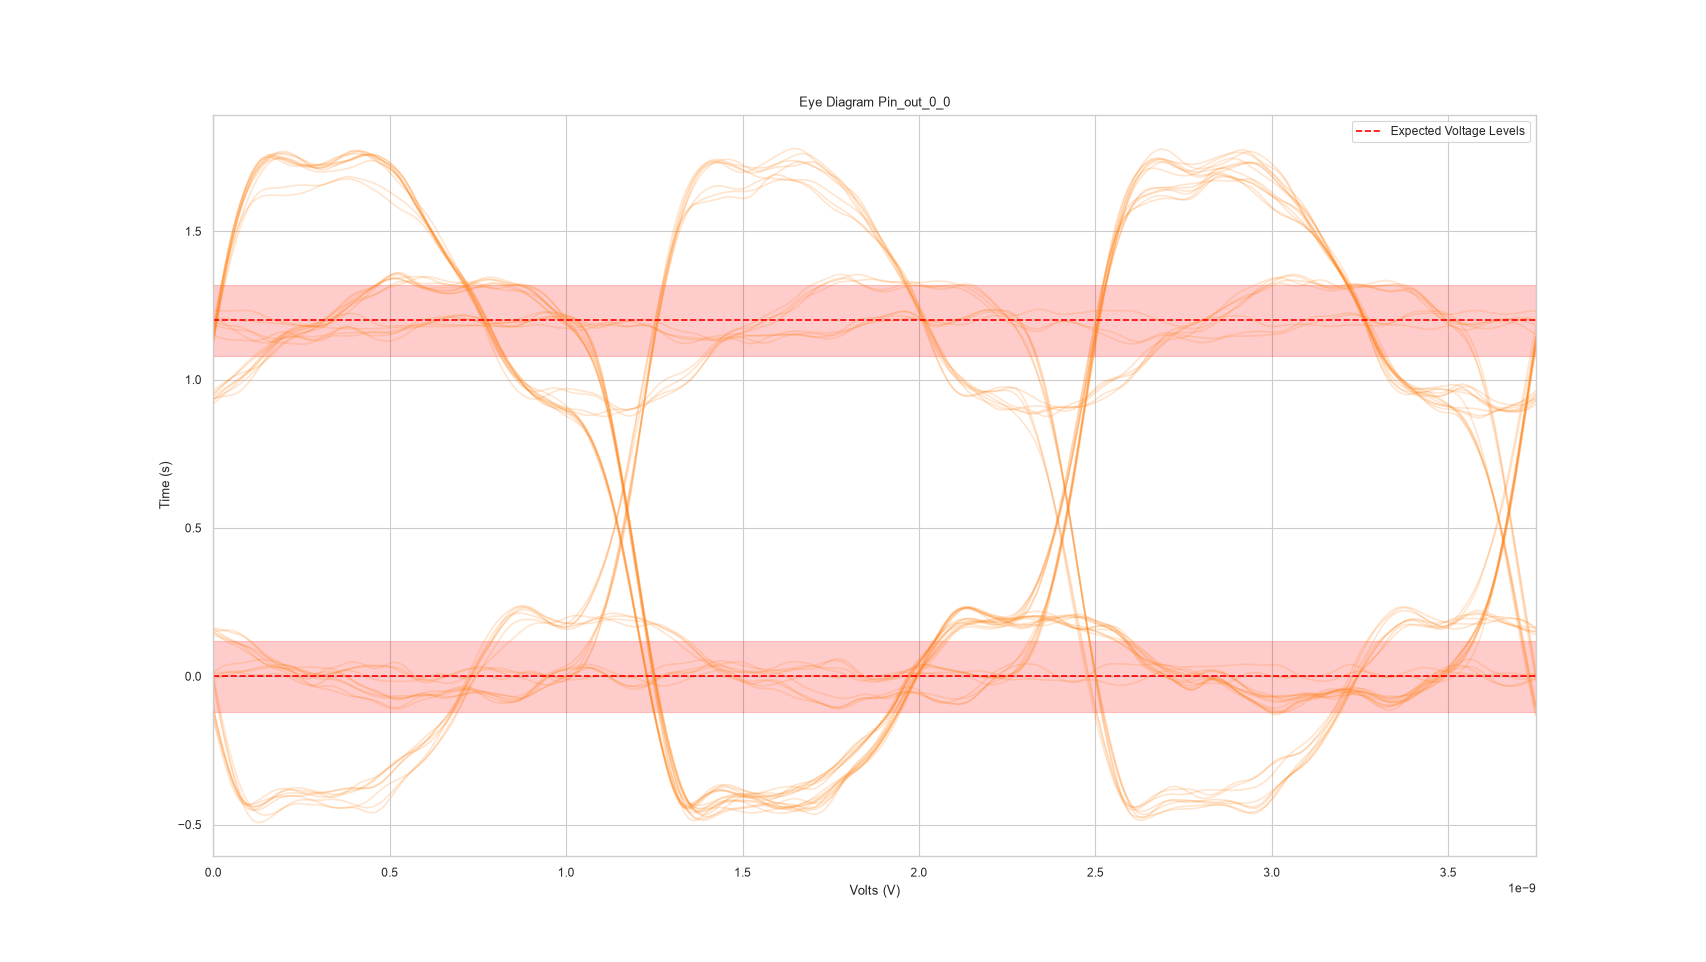
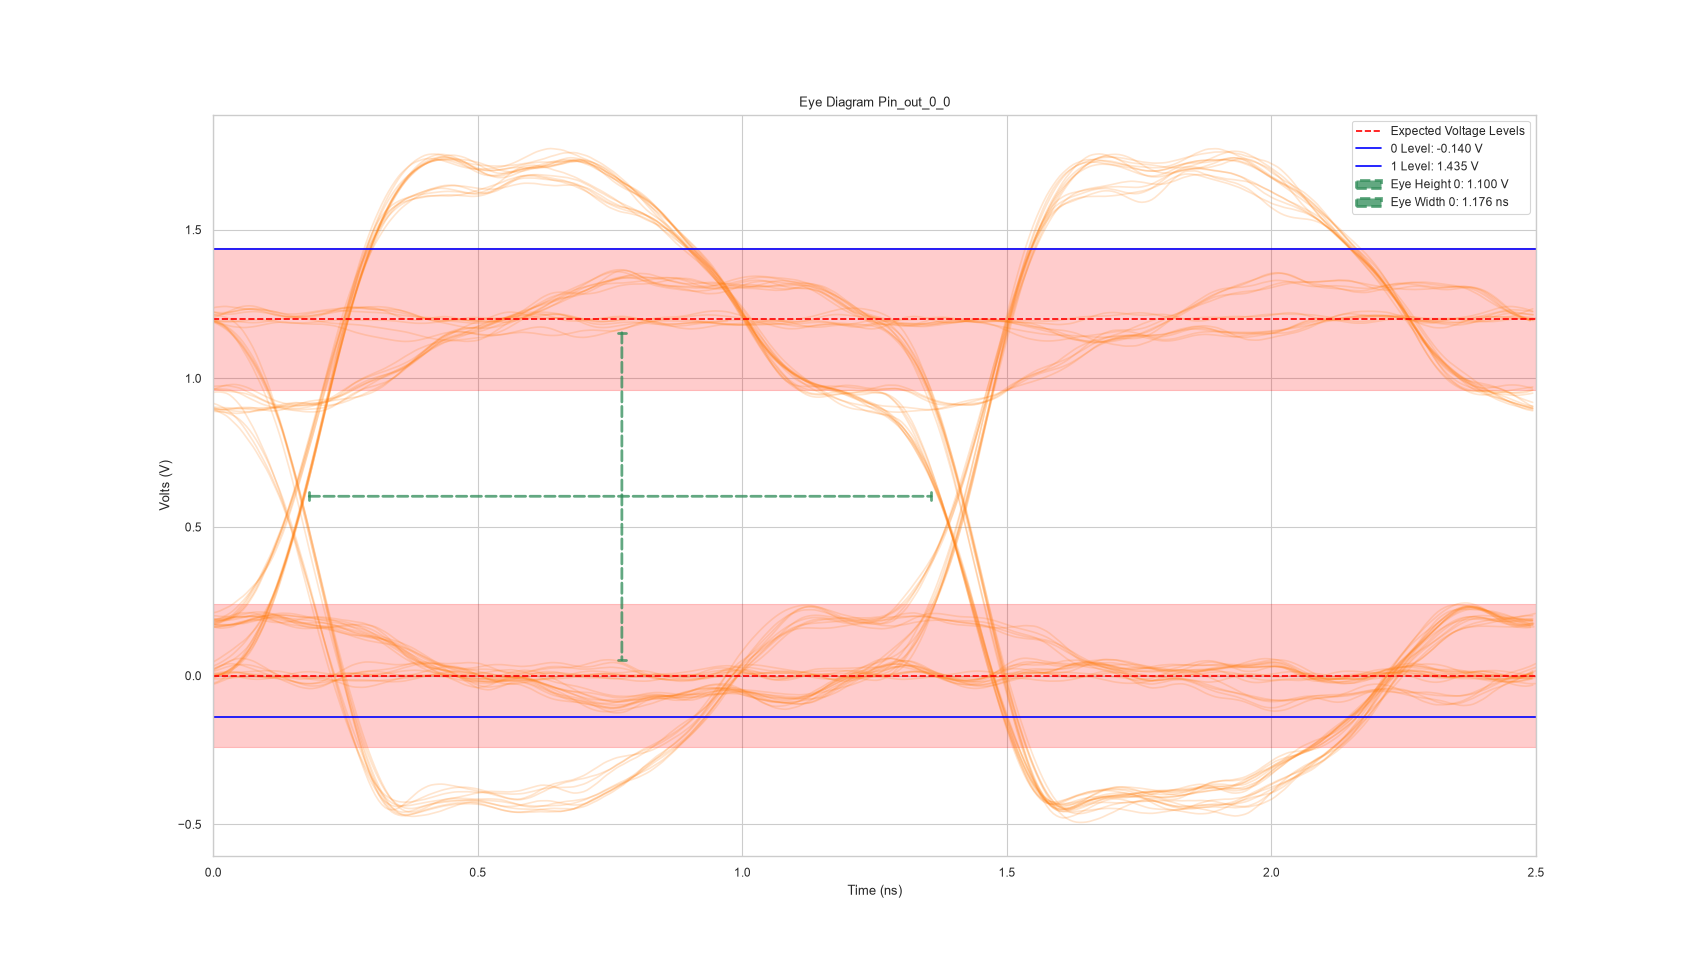
Update docs to reflect code changes

diff --git a/docs/source/examples.rst b/docs/source/examples.rst
@@ -63,12 +63,13 @@ configuration parameters are provided. Additionally, the requested analyses are 
 
 The measurements from the waveform analysis are as follows: ::
 
-    |Time Eye Center: 1.779E-09|
-    |0 Level: -2.249E-01|
-    |1 Level: 1.440E+00|
-    |Eye Height 0: 1.080E+00|
-    |Eye Amplitude 0: 1.665E+00|
-    |Eye Width 0: 3.956E-04|
+    |Fall Time: 1.846E-10|
+    |Slew Rate Fall: -5.200E+09|
+    |Rise Time: 1.904E-10|
+    |Slew Rate Rise: 5.042E+09|
+    |Overshoot: 5.258E-01|
+    |Undershoot: -4.503E-01|
+    |Settling Time: 1.243E-09|
 
 .. image:: /examples_resources/ex1_wf.png
     :width: 80%
@@ -76,13 +77,16 @@ The measurements from the waveform analysis are as follows: ::
 
 The measurements from the eye diagram analysis are as follows: :: 
 
-    |Fall Time: 1.225E-09|
-    |Slew Rate Fall: -7.835E+08|
-    |Rise Time: 9.873E-10|
-    |Slew Rate Rise: 9.724E+08|
-    |Overshoot: -4.354E-02|
-    |Undershoot: -5.082E-02|
-    |Settling Time: 1.243E-09|
+    |Time Eye Center: 7.722E-10|
+    |0 Level: -1.404E-01|
+    |1 Level: 1.435E+00|
+    |Eye Height 0: 1.100E+00|
+    |Eye Bottom 0: 1.153E+00|
+    |Eye Top 0: 5.336E-02|
+    |Eye Amplitude 0: 1.576E+00|
+    |Eye Width 0: 1.176E-09|
+    |Eye Right 0: 1.357E-09|
+    |Eye Left 0: 1.813E-10|
 
 .. image:: /examples_resources/ex1_eye.png
 
@@ -124,15 +128,28 @@ Waveform and Eye Analysis were performed on the daisy chain structure detailed i
             terminations_end=[None, None, None]
     )
 
+Additionally, the analyses were manually configured with the specific node name to be checked and some specific 
+configuration settings in a dictionary: ::
+
+    analysis_config = {'key': 'pin_out_1_0',     
+                'clock_frequency': comp.net_tree.clock_frequencies_Hz[0],
+                'v_high': comp.net_tree.v_logic[0][1],
+                'v_low':  comp.net_tree.v_logic[0][0],
+                'threshold_pct': 0.8, 
+                'statistical_jitter_s': 0,
+                'visualise': True}
+    results = compose_and_run_simulation(comp)
+    analyse_simulation_results(comp, results, visualise=True, eye_config=analysis_config, waveform_config=analysis_config)
+
 The measurements from the waveform analysis are as follows: ::
 
-    |Fall Time: 1.003E-09|
-    |Slew Rate Fall: -9.572E+08|
-    |Rise Time: 1.056E-09|
-    |Slew Rate Rise: 9.091E+08|
-    |Overshoot: 2.616E-02|
-    |Undershoot: -1.222E-01|
-    |Settling Time: 1.238E-09|
+    |Fall Time: 1.365E-10|
+    |Slew Rate Fall: -7.036E+09|
+    |Rise Time: 1.357E-10|
+    |Slew Rate Rise: 7.076E+09|
+    |Overshoot: 5.061E-01|
+    |Undershoot: -4.756E-01|
+    |Settling Time: 9.807E-10|
 
 .. image:: /examples_resources/ex2_wf.png
     :width: 80%
@@ -140,12 +157,16 @@ The measurements from the waveform analysis are as follows: ::
    
 The measurements from the eye diagram analysis are as follows: :: 
     
-    |Time Eye Center: 3.041E-09|
-    |0 Level: 1.041E-01|
-    |1 Level: 1.053E+00|
-    |Eye Height 0: 5.933E-01|
-    |Eye Amplitude 0: 9.491E-01|
-    |Eye Width 0: 5.062E-04|
+    |Time Eye Center: 1.059E-09|
+    |0 Level: -1.817E-01|
+    |1 Level: 1.460E+00|
+    |Eye Height 0: 1.027E+00|
+    |Eye Bottom 0: 1.130E+00|
+    |Eye Top 0: 1.027E-01|
+    |Eye Amplitude 0: 1.642E+00|
+    |Eye Width 0: 1.176E-09|
+    |Eye Right 0: 1.634E-09|
+    |Eye Left 0: 4.575E-10|
 
 .. image:: /examples_resources/ex2_eye.png
     :width: 80%
